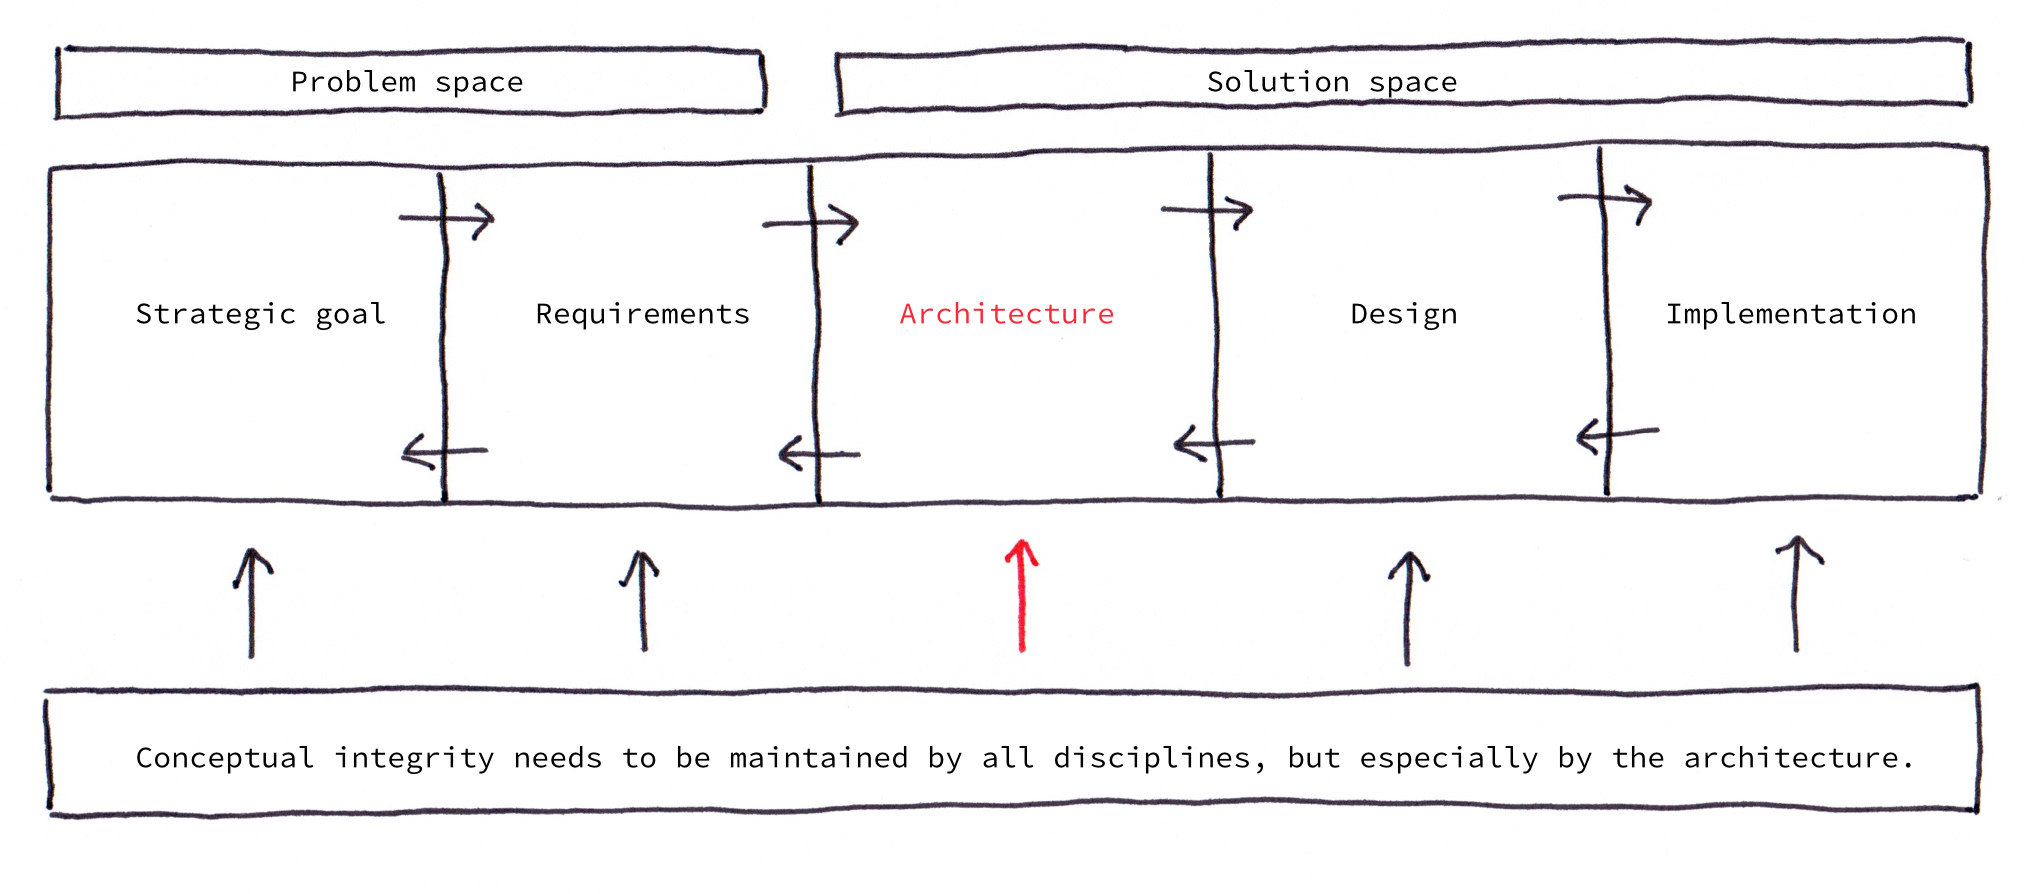
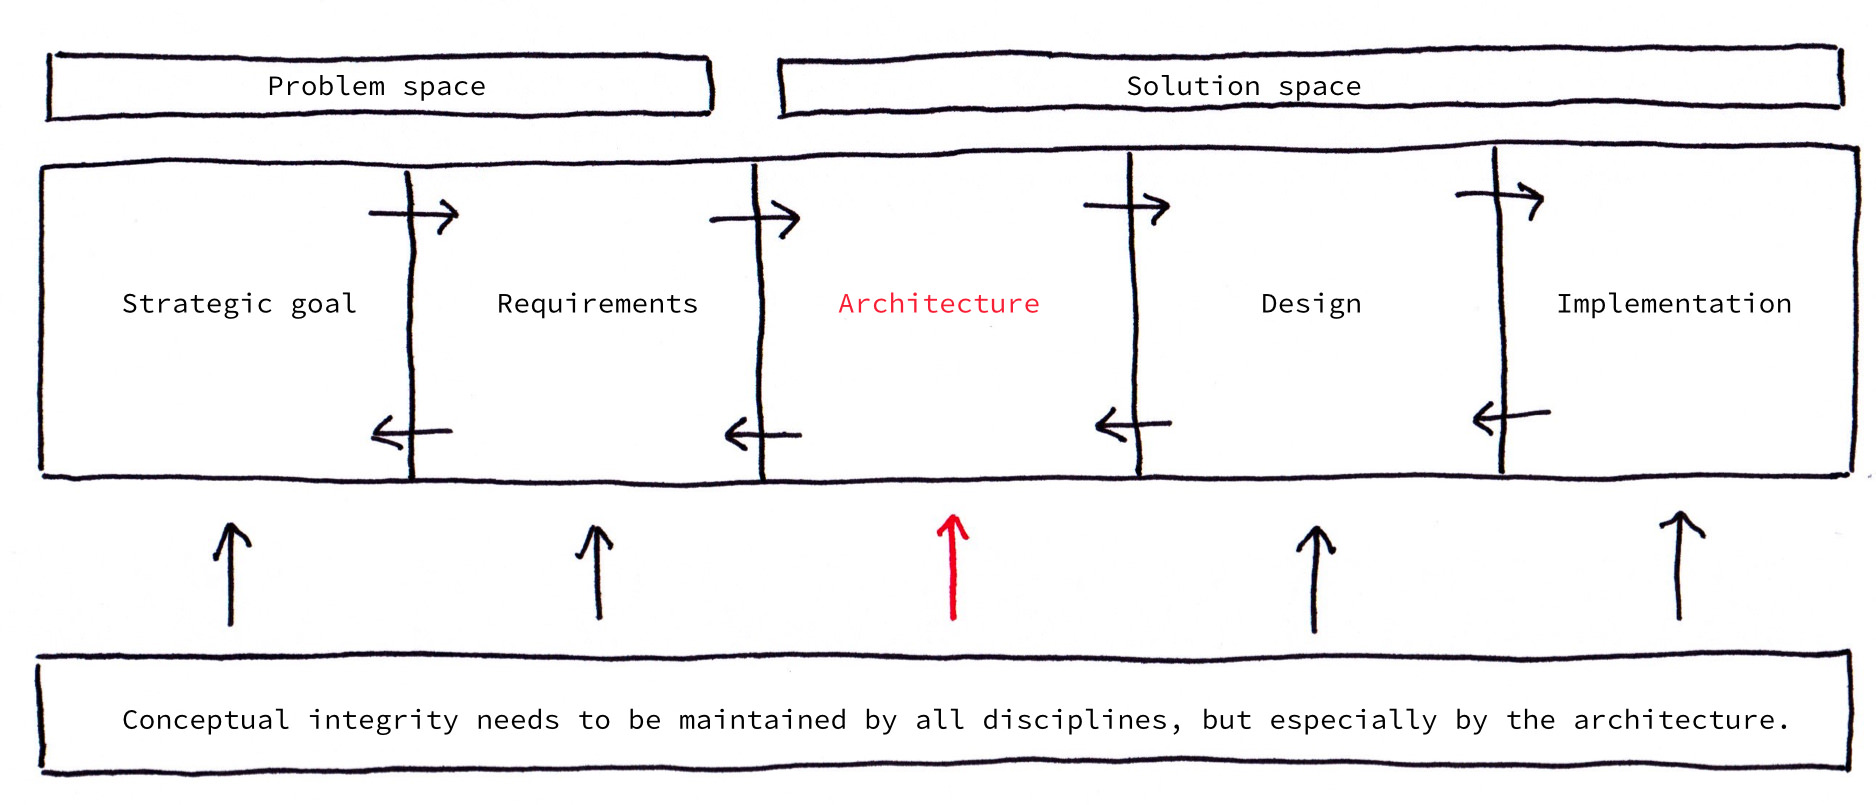
rework graphics, rewrite bbl

Changed region(s): [[0.0, 0.0311, 1.0, 0.9627], [0.0618, 0.3416, 0.1855, 0.4037], [0.6493, 0.3416, 0.742, 0.4037]]

diff --git a/_posts/blog/2011-04-14-box-bullet-line.md b/_posts/blog/2011-04-14-box-bullet-line.md
@@ -7,7 +7,7 @@ message:
 banner: /i/blog/bbl.jpg
 bottomline: 
 author: 
-abstract: An intuitive and natural notation to communicate flows and indicate callers.
+abstract: An intuitive and natural notation to communicate flows  between components.
 ---
 Many important aspects of software development are invisible. When creating software we work through different abstraction layers by analyzing symbols and writing code. 
 
@@ -25,58 +25,68 @@ UML diagrams have their value, but only if the ones who work with them have a sh
 
 Therefore the usage of the UML diagrams should be decided with care and insight.
 
-One UML diagram that I find useful for communicating process logic between people of different backgrounds is the [UML activity diagram](http://agilemodeling.com/artifacts/activityDiagram.htm), because to me it is the most natural way of explaining activities and their dependencies by drawing boxes and connecting them with lines.
+The here proposed box-bullet-line notation is an easy to use drop in, that allows to  
 
-The UML activity diagram allows to model flow of control and data. I used it as a starting point and made some modifications that lead to the box-bullet-line notation.
-
-But let´s start with the basics. In the example below the directed connection from A to B has the meaning of „control flows from A to B“. This is a convention of the UML activity diagram. 
-
-![Flow](/i/blog/flow.jpg)
-
-Figure: The directed connection between A and B models flow from A to B.
-{:.figcaption}
-
-Now the modifications: When I draw BBL diagrams I do not differentiate control and data flow. Although the UML activity diagram has a slightly different notation for „data flow“, which uses so called „pins“ at both ends of the connection. Let´s assume it is all about „flow“.
-
-Furthermore in the UML activity diagram a rounded rectangle stands for an activity. I interpret the rectangles as components, so that components and flow dependencies between components will be modeled. And when I draw by hand, it is time-consuming to draw rectangles with rounded corners, therefore I do not draw the rounding. This again is a difference to the original activity diagram, because not-rounded corners and rounded corners have a different meaning of: rounded = activity, not rounded = data object. By enhancing the diagram with a tiny bullet to indicate the caller in a flow, we can 
-
-* still visualize flow
-* still easily draw by hand
+* model data flow
+* see components and their dependencies
 * indicate callers
 * have calling sequences
-* use synchronous and asynchronous communication patterns.
+* use synchronous and asynchronous communication patterns
+* still be able to draw easily by hand.
+
+<h3>Dependency</h3>
+
+Let´s start with the basics. A line between two boxes indicates a dependency between two system components. A box is a component. In early phases, when you explore an existing system or design a new one, when directions of communication are not of highest importance, the undirected dependency between components is a good starting point.
+
+![Dependency](/i/blog/bbl_dependency.jpg)
+
+Figure: A dependency between A and B
+
+<h3>Flow</h3>
+
+The directed connection from A to B has the meaning of „data flows from A to B“. 
+
+![Flow](/i/blog/bbl_flow.jpg)
+
+Figure: The directed connection between A and B models a data flow from A to B.
+{:.figcaption}
 
 <h3>Caller</h3>
 The caller can be marked with a tiny bullet.
 
-![Caller and flow](/i/blog/caller_and_flow.jpg)
+![Caller pushing](/i/blog/bbl_caller_push.jpg)
 
-Figure: A is calling B and handing over flow to B
+Figure: A is calling B and handing over data to B
+{:.figcaption}
+
+![Caller pulling](/i/blog/bbl_caller_pull.jpg)
+
+Figure: B is calling A and requesting data
 {:.figcaption}
 
 <h3>Sequences</h3>
 
 By using numbers beside the connections, calling sequences can be modeled.
 
-![Caller and flow with sequence](/i/blog/caller_and_flow_sequence.jpg)
+![Caller and flow with sequence](/i/blog/bbl_caller_and_flow_sequence.jpg)
 
-Figure: Modeling flow with a calling sequence
+Figure: Modeling data flow with a calling sequence
 {:.figcaption}
 
-<h3>Synchronous and asynchronous communication</h3>
+<h3>Synchronous and asynchronous</h3>
 
-Synchronous and asynchronous communication can be modeled with single and double connections.
+Synchronous and asynchronous communication can be modeled with single and doubled connections.
 
-![Synchronous request and response](/i/blog/sync_request_response.jpg)
+![Synchronous request and response](/i/blog/bbl_sync.jpg)
 
-Figure: A request initiated by A, giving data to B and getting a synchronous response from B
+Figure: A request initiated by A, synchronous communication. If A writes first and gets a response or A reads first and writes back is not defined.
 {:.figcaption}
 
+![Request with asynchronous response](/i/blog/bbl_async.jpg)
 
-![Request with asynchronous response](/i/blog/request_async_response.jpg)
-
-Figure: A call initiated by A, giving flow to B. The asynchronous response from B follows.
+Figure: A call initiated by A, giving data to B. The asynchronous response with data from B follows.
 {:.figcaption}
 
-This simple box-bullet-line notation can grow with your needs. For example you can start modeling only undirected connections, add flows by giving your connections a direction and extend even more by adding caller indication with calling sequences later. 
+This simple box-bullet-line notation can grow with your needs. For example you can start modeling only undirected connections, add data flows by giving your connections a direction and extend even more by adding caller indication with calling sequences later. 
 
+BBL - model natural.
